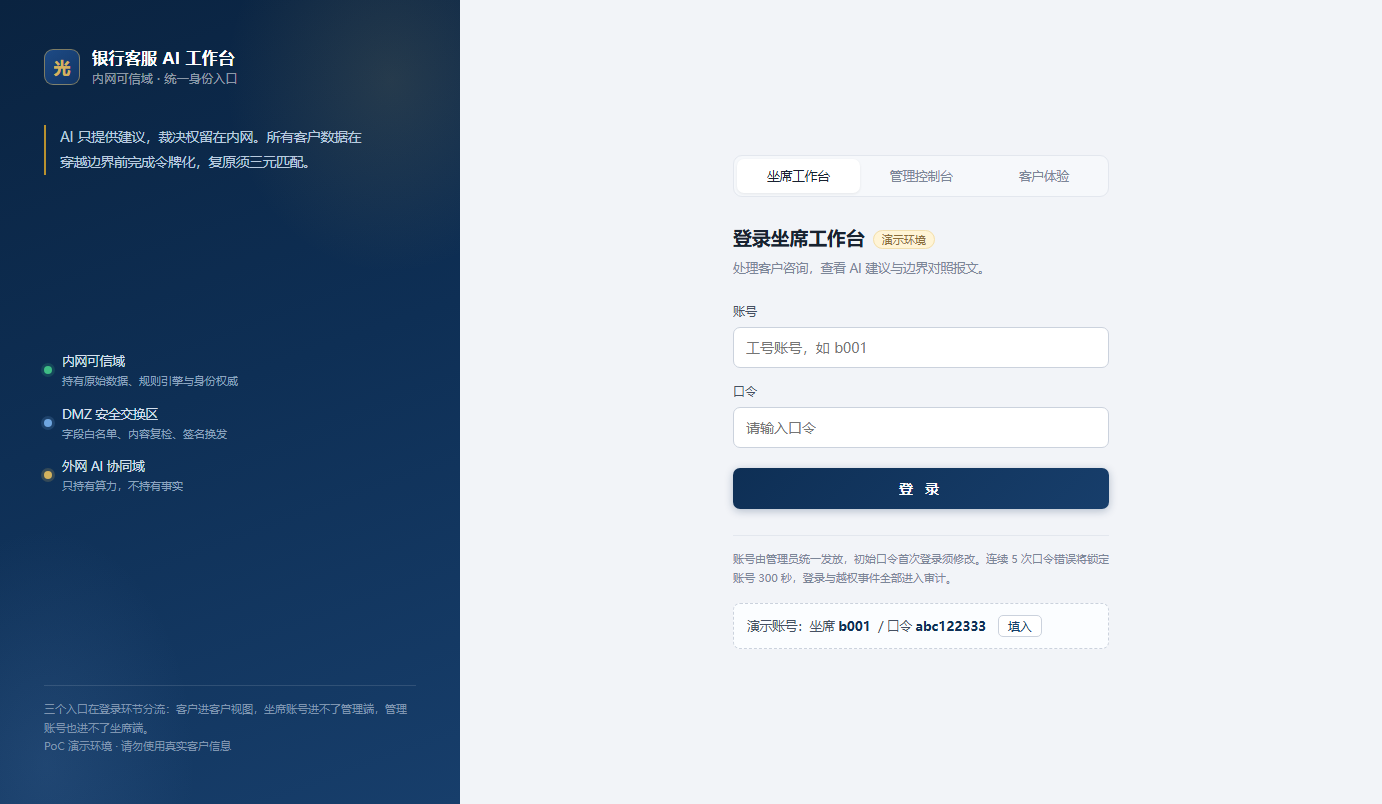
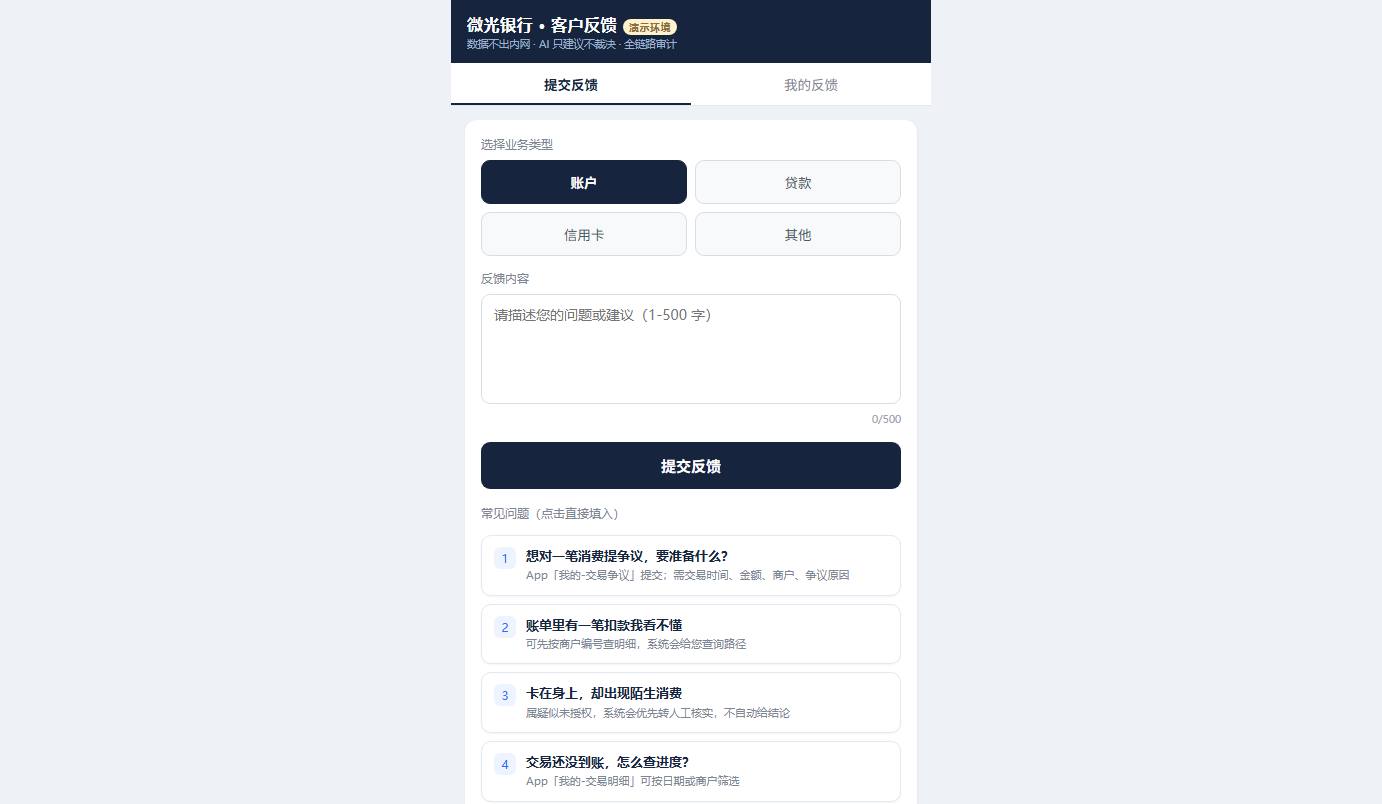
fix(login): 客户侧空白登录、内部侧低调快捷登录；包与说明同步

diff --git a/补丁_给原仓库/README_补丁说明.md b/补丁_给原仓库/README_补丁说明.md
@@ -309,9 +309,9 @@ git apply --include='common/*' --include='dmz/*' --include='inner/*' --include='
 
 配套改动：
 
-- `h5/login.html`（新增）：登录页本体。左侧品牌与三区说明照抄内网登录页，右侧多一个「客户体验」标签；客户登录写入 `localStorage.fb_openid` 后进 `/app`。
-- `h5/index.html`：openid 改读登录页写入的值；直接打开 `/app` 时给演示号兜底；页脚显示「当前客户 138****8000 · 退出登录」。
-- `outer/app.py`：`/` 给登录页、`/app` 给客户页、`/emp` 302 到内网登录页；所有页面响应加 `Cache-Control: no-store`（演示期页面反复更新，避免客户看到旧页面）；`/emp` 主机名取 `X-Forwarded-Host`/`Host`，否则反代下会跳 `127.0.0.1` 打不开。
-- `web/login.html`：支持从对外入口跳来时用 `?u=` 预填工号；后部新增「客户体验入口（外部客户视角）」链接。
+- `h5/login.html`（新增）：对外登录页本体。左侧品牌与三区说明照抄内网登录页，右侧三个标签；**客户标签不预填、不显示任何演示账号**（客户侧要能真用），登录后进 `/app`。
+- `web/login.html`：内网登录页底部保留一行低调的「演示快捷登录：坐席 / 管理」小字链（客户不会到这一页），支持 `?u=` 预填工号。
+- `h5/index.html`：openid 取登录时写入的客户号；页脚显示「当前客户 138****8000 · 退出登录」。
+- `outer/app.py`：`/` 登录页、`/app` 客户页、`/emp` 302 到内网登录页；页面响应统一 `Cache-Control: no-store`。
 
 **实测**：`/` → 9,833 B 登录页（标题「登录 · 银行客服 AI 工作台」、三标签、默认坐席工作台）；切「客户体验」→ 预填 13800138000、口令框隐藏 → 登录跳 `/app`（FAQ 4 条在）；`/emp` → 302 到 `19096`；12 例仍 12/12。
